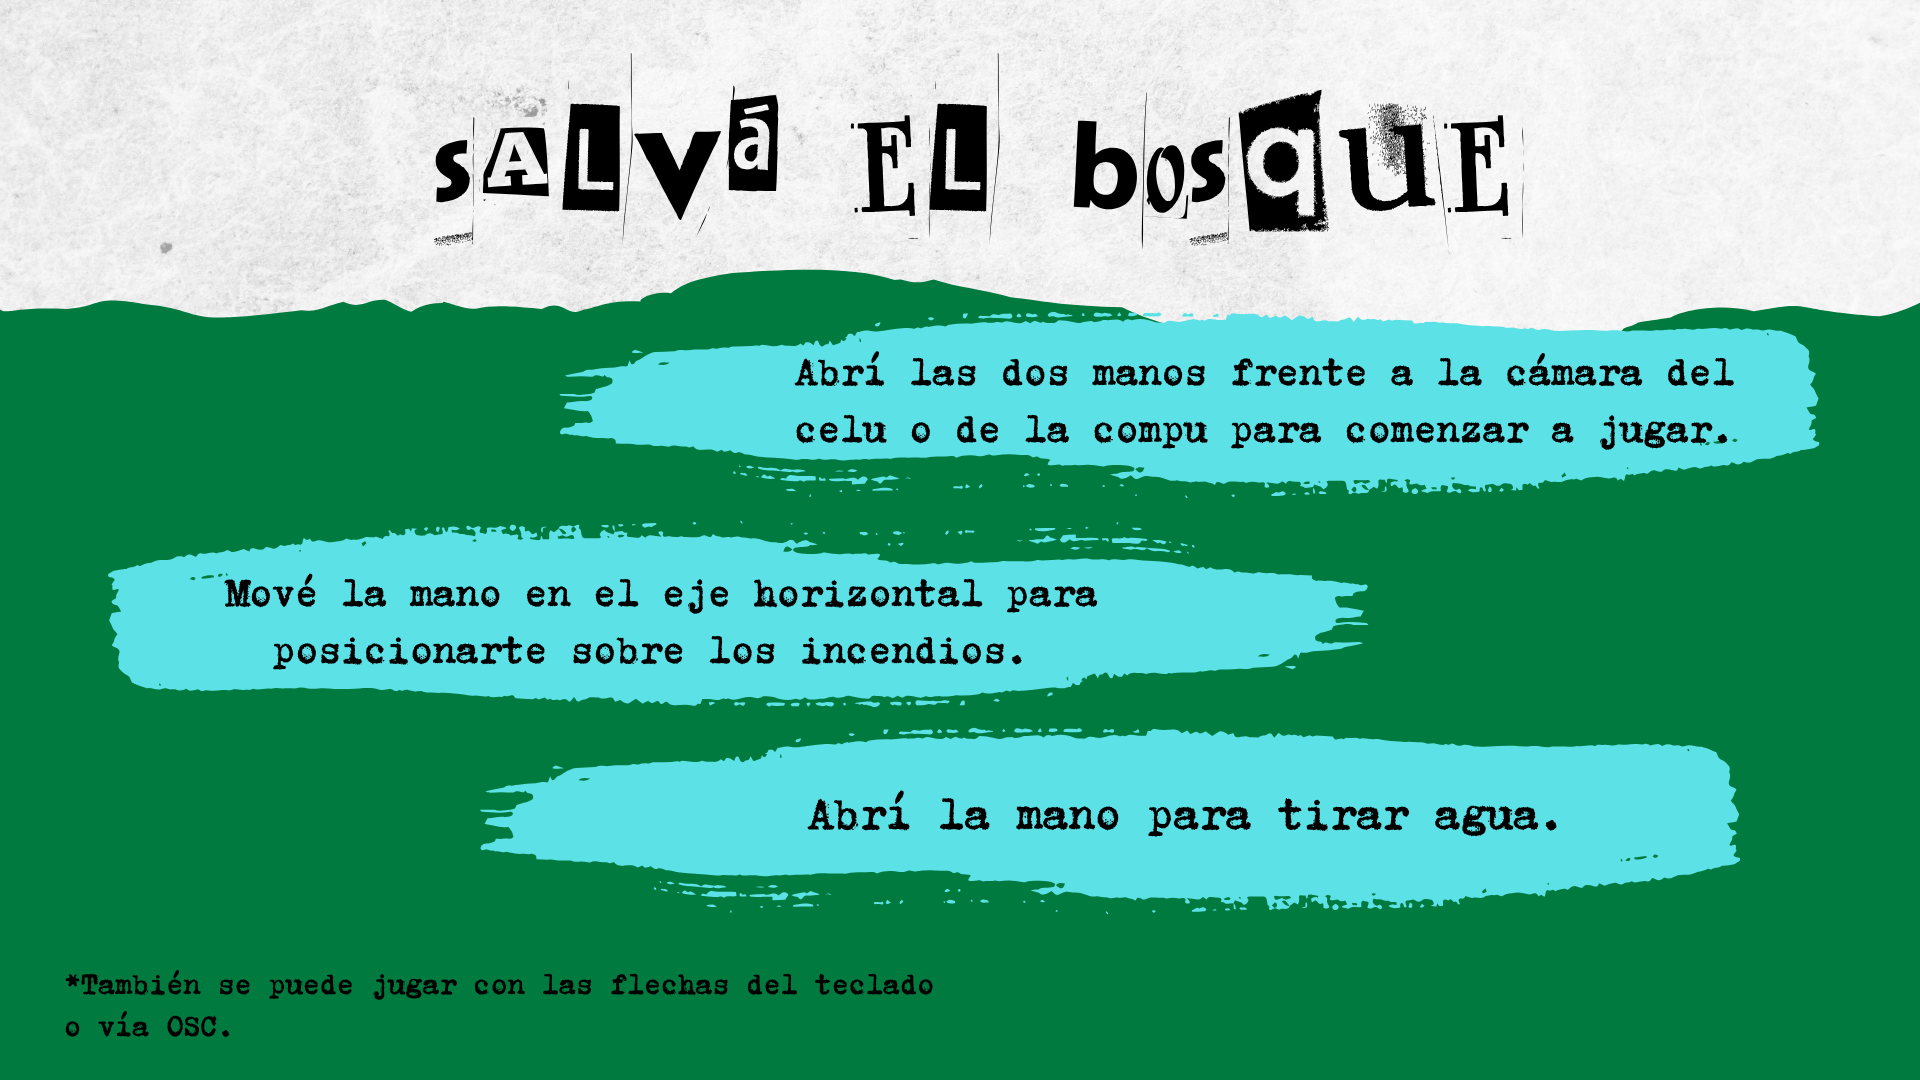
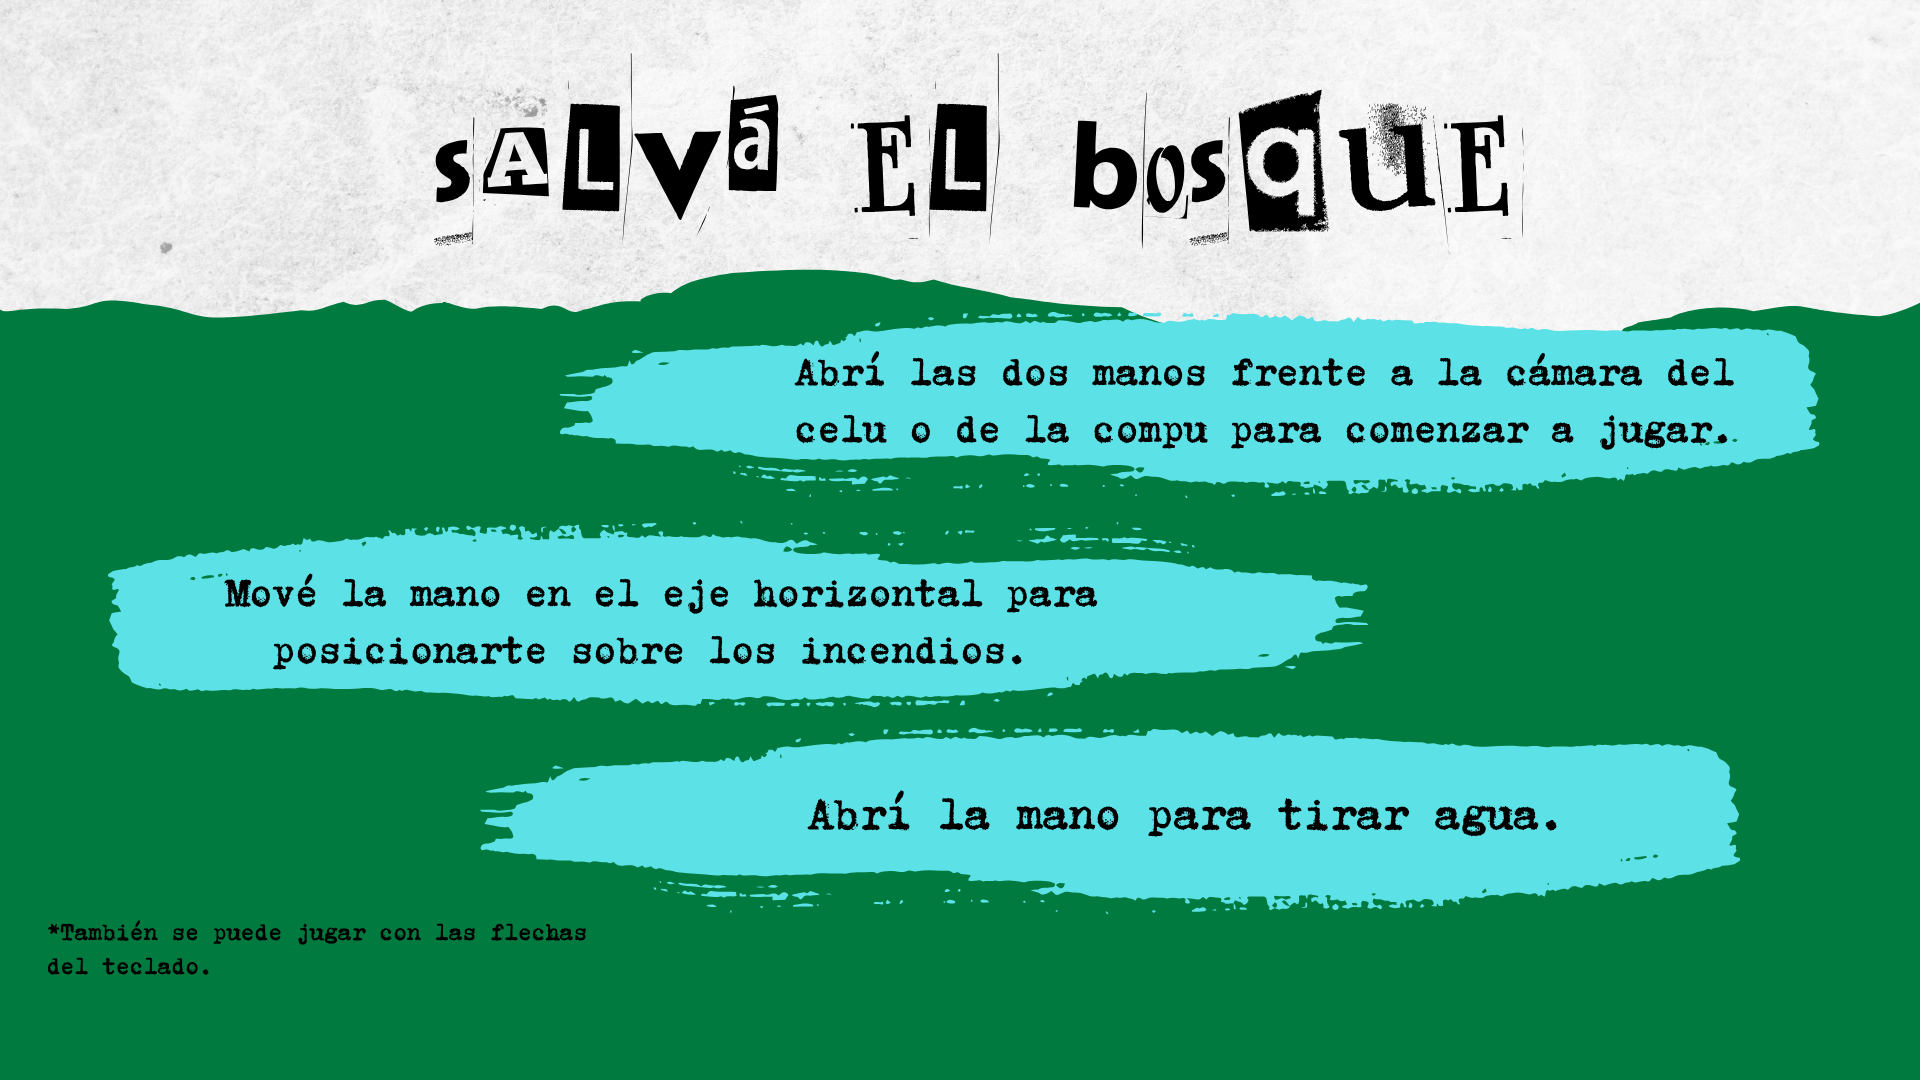
BAJAR CALIDAD CELU

Changed region(s): [[0.0312, 0.8556, 0.5, 0.9778]]

diff --git a/sketch.js b/sketch.js
@@ -105,15 +105,16 @@ function setup() {
     }
   });
 
-  // ==========================================
-  // MEDIA PIPE (cámara)
+
+ // ==========================================
+  // MEDIA PIPE (Cámara optimizada para móviles)
   // ==========================================
   video = createCapture({
     audio: false,
     video: {
       facingMode: "user",
-      width: 640,
-      height: 480
+      width: { ideal: 320 },  // <--- Bajamos a 320px para no saturar la CPU del celu
+      height: { ideal: 240 }
     }
   });
   video.hide();
@@ -124,24 +125,23 @@ function setup() {
 
   hands.setOptions({
     maxNumHands: 2,
-    modelComplexity: 1,
-    minDetectionConfidence: 0.4,
-    minTrackingConfidence: 0.4
+    modelComplexity: 0,        // <--- CAMBIO CLAVE: 0 = Lite (Súper veloz en celulares)
+    minDetectionConfidence: 0.3, // <--- Más permisivo si hay sombra o baja luz
+    minTrackingConfidence: 0.3
   });
 
   hands.onResults(onHandResults);
 
   const camera = new Camera(video.elt, {
     onFrame: async () => {
-      if (video.elt) {
+      if (video.elt && video.elt.readyState === 4) { // Asegura que el video esté listo
         await hands.send({ image: video.elt });
       }
     },
-    width: 640,
-    height: 480
+    width: 320,
+    height: 240
   });
   camera.start();
-
   // ==========================================
   // WEBSOCKET / OSC (Comentado)
   // ==========================================
@@ -328,7 +328,7 @@ function evaluarManoAbierta(landmarks) {
   let dPunta = dist(muñeca.x, muñeca.y, puntaIndice.x, puntaIndice.y);
   let dBase = dist(muñeca.x, muñeca.y, baseIndice.x, baseIndice.y);
 
-  return dPunta > (dBase * 1.1);
+  return dPunta > (dBase * 1.02);
 }
 
 function onHandResults(results) {
@@ -365,7 +365,7 @@ function onHandResults(results) {
   estadoDosManosAbiertas = activarBarra;
 
   // Carga de barra para transiciones (Intro / Victoria / Derrota)
-  let juntandoPorTeclado = keyIsDown(UP_ARROW);
+  let juntandoPorTeclado = keyIsDown(DOWN_ARROW);
   let tiempoSuficiente = (millis() - tiempoInicioEscena > TIEMPO_MINIMO_PANTALLA);
 
   if ((activarBarra || juntandoPorTeclado) && tiempoSuficiente) {
